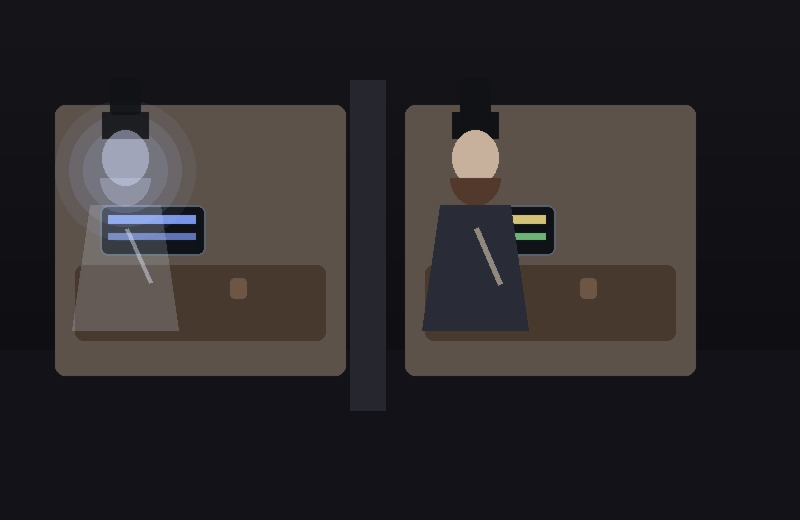
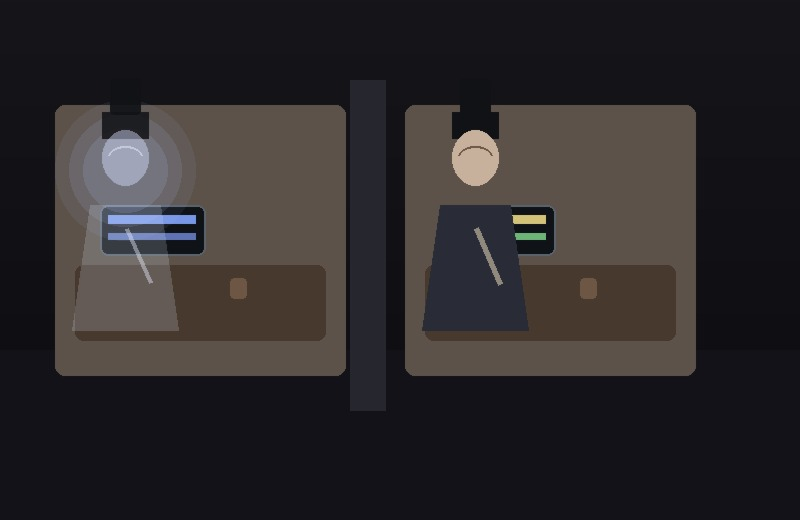
Refine Carbon Ghost to clean-shaven faces

Changed region(s): [[0.5625, 0.3385, 0.625, 0.4], [0.125, 0.3385, 0.1875, 0.4]]

diff --git a/art-diary/2026-05-02-carbon-ghost.html b/art-diary/2026-05-02-carbon-ghost.html
@@ -96,8 +96,7 @@
     <rect x="361" y="230" width="48" height="48" rx="4" fill="#111216" opacity="0.95"/>
     <path d="M326 278 h118 q-10 24 -59 24 q-49 0 -59 -24z" fill="#111216" opacity="0.95"/>
     <ellipse cx="385" cy="344" rx="42" ry="52" fill="#d8e4ff" opacity="0.34"/>
-    <path d="M362 350 q23 18 46 0 q-2 28 -23 28 q-21 0 -23 -28z" fill="#cbd8ff" opacity="0.4"/>
-    <path d="M346 346 q8 -18 20 -10 q18 12 38 0 q12 -8 20 10" stroke="#edf3ff" opacity="0.58" fill="none"/>
+    <path d="M349 347 q10 -12 21 -8 q15 6 30 0 q11 -4 21 8" stroke="#edf3ff" opacity="0.42" fill="none" stroke-width="2.4" stroke-linecap="round"/>
     <path d="M333 402 q52 -28 104 0 l18 110 h-140z" fill="#d7e1f4" opacity="0.2"/>
     <path d="M390 430 q24 18 37 44" stroke="#eff5ff" opacity="0.5" fill="none"/>
     <path d="M380 432 q-12 28 -12 58" stroke="#eff5ff" opacity="0.35" fill="none"/>
@@ -107,8 +106,7 @@
     <rect x="1046" y="230" width="48" height="48" rx="4" fill="#111216"/>
     <path d="M1011 278 h118 q-10 24 -59 24 q-49 0 -59 -24z" fill="#111216"/>
     <ellipse cx="1070" cy="344" rx="42" ry="52" fill="#c9b6a2"/>
-    <path d="M1048 352 q22 17 44 0 q-2 26 -22 26 q-20 0 -22 -26z" fill="#5d4030"/>
-    <path d="M1029 344 q10 -24 22 -12 q20 12 38 0 q12 -8 22 12" stroke="#3f2a21" fill="none" stroke-width="3"/>
+    <path d="M1034 347 q11 -13 22 -8 q16 6 28 0 q11 -5 22 8" stroke="#6f5847" fill="none" stroke-width="2.5" stroke-linecap="round"/>
     <path d="M1018 402 q52 -28 104 0 l18 110 h-140z" fill="#2a2d35"/>
     <path d="M1075 430 q25 16 38 46" stroke="#8d857c" fill="none" stroke-width="4"/>
     <path d="M1066 432 q-12 26 -12 60" stroke="#8d857c" fill="none" stroke-width="4"/>
